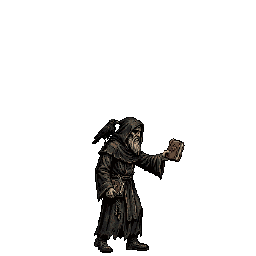
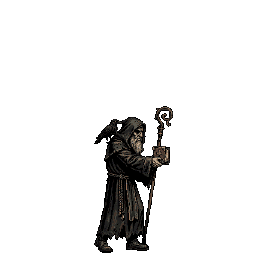
T65: poses refeitas do livro do Bento e da lança erguida do Jorge, no tamanho do parado (D-389)
Claude-Session: https://claude.ai/code/session_01DUWuezvzjAUhnjSiedgYuQ

Changed region(s): [[0.3438, 0.4062, 0.7188, 0.9688]]

diff --git a/docs/memory/decisions.md b/docs/memory/decisions.md
@@ -311,4 +311,5 @@ Formato: **D-número · data · quem** — decisão. *Onde está aplicada.*
 - **D-386 · 15/11/2026 · Alan e agente** — Revisão de Alan da arte de D-385: aprovada com comentários. Aplicado: (1) **Diabo de Lodo** refeito sem a sombra cinza (vinha do clipe anterior): parado com `animate_image` (4 gerações, respira sem riscos), preparar, **golpe com as garras** e **golpe com a boca da barriga** como poses desenhadas por `edit_image_pixen` (1 cada) a partir do parado aprovado; os dois golpes **se alternam** (`strike_alt`, só apresentação); guarda e queda mantidas. (2) **Sombra do Desejo** não avança: o golpe dela vira luz roxa em volta do alvo, como a Vertigem (`attack_style = outline`). (3) **Queda de Minos** (pose final de um clipe de 4 quadros). (4) Ícones: guarda (escudo redondo) e Passar (ampulheta) escolhidos de 64 opções `create_image_pro` 32 × 32 (10 cada); **Deslocar** em dois modelos (cinza e traço claro); espada da intenção de ataque **virada para cima**. (5) **Santos no estilo novo de Alan** (galeria, 15/11): rosto do Bento e da Teresinha refeito por `inpaint_image_pro_flash` (9 cada) com olhos claros e expressão serena (os originais de olhos pretos ficam para a Noite Escura); **Jorge** no mesmo estilo por `create_image_pro` (10) com o Jorge do piloto como referência. **Ainda não entram no jogo**: Alan escolhe pela comparação; aprovados, refazem-se as animações dos três. Gasto: ~52 gerações. *`pixel_clips.csv`, `pixel_characters.csv`, `combatant_view.gd`, `battle_screen.gd`, `art_source/characters/saints/*/pixel/*_still_v02.png`.*
 - **D-387 · 15/11/2026 · Alan** — Santos: **Jorge** fica o atual (o estilo novo quase não mudou); **Bento** no estilo novo **com os olhos escuros** (monge exorcista mais sério) e **com o corvo no ombro** (pedido de Alan; corvo levado do chão ao ombro por `edit_image_pixen`, 1 geração); **Teresinha** no estilo novo com o rosto refeito (olhos claros, serena). Os olhos pretos **não** servem para a Noite Escura (o editor refaz o rosto inteiro). Deslocar: o ícone **cinza**. Diabo de Lodo, Sombra, queda de Minos e ícones: aprovados. Animações novas (`animate_image_pixminimax`, 1 cada): Bento parado e andar (9 quadros), preparar, golpe, guarda e queda (o corvo levanta voo) em pose final; Teresinha parada e andar (9), preparar 4, crucifixo erguido 4, guarda 2, queda 4. Auréolas remedidas: Bento (60, 29), Teresinha (56, 24). Os 5 clipes do Bento sem o corvo (feitos antes do pedido) foram descartados. Saldo do PixelLab: 1.455. *`pixel_clips.csv`, `pixel_characters.csv`, `art_source/characters/saints/*/pixel/*_v02.png`.*
 - **D-388 · 15/11/2026 · Alan e agente** — Revisão de Alan: (1) "Jorge parece mais detalhado": conferido pelo agente, os três têm a **mesma resolução** (tela de 256, mesmo tamanho de pixel, mesma redução 0,6); a diferença é a pele quente e o contraste do Jorge. **Pele quente** sem gerar: na entrada, as cores de pele medidas no rosto do Bento e da Teresinha viram as cores da pele do Jorge na paleta (`SKIN_MAP`, só essas cores, para o hábito e o manto não mudarem). (2) **Exorcismo do Bento**: ergue o livro para a frente com uma mão (clipe `spell_strike`, pose por `edit_image_pixen`; o báculo some nessa pose curta). (3) **Milagre do Jorge**: ergue a lança ao alto antes de estocar (clipe `miracle_windup`, usado só quando a habilidade é o milagre). (4) **Auréolas** iguais à do Bento (aprovada): centro atrás da cabeça, aparecendo acima e atrás; Jorge (74, 17) e Teresinha (52, 18) a partir do canto do desenho. Gasto: 5 gerações (2 poses de livro descartadas). *`tools/art/import_pixel.py`, `pixel_clips.csv`, `pixel_characters.csv`, `combatant_view.gd`, `battle_screen.gd`.*
+- **D-389 · 15/11/2026 · Alan** — Pele, resolução e auréolas de D-388 **aprovadas**. Poses **reprovadas**: o livro do Bento aparecia na outra mão, o báculo sumia e o livro continuava na cintura; o Jorge encolhia ao erguer a lança (181 contra 229 pixels). Refeitas pelo agente como **animação curta a partir do próprio parado** (`animate_image_pixminimax`, 4 quadros, 1 geração; esse caminho mantém o tamanho e as mãos, ao contrário do `edit_image_pixen`): Bento ergue para a frente **o mesmo livro da cintura**, o báculo continua (quadro 4); Jorge ergue a lança acima da cabeça no tamanho do parado (quadro 2). Gasto: 4 gerações. Lição em `lessons.md`. *`saint_benedict_px_pose_book_v01.png`, `saint_george_px_pose_spear_up_v01.png`.*
 - **D-308** — Simulador: formação do M0 Jorge (1), Bento (2), Teresinha (3); expedição longa simulada com 6 combates, Lume −5 por nó, Pousos com Vigília depois dos combates 2 e 4 e vida cheia a cada combate. *T13, `tools/sim/battle_simulator.gd`.*

diff --git a/docs/memory/lessons.md b/docs/memory/lessons.md
@@ -93,3 +93,4 @@ Fluxo que funciona (`tools/art/process_frames.py` + `animation_clips.csv` + `ani
 - **Pixel art no Godot (T65):** mostre cada figura com a altura do próprio desenho (`CharacterFrames.figure_height`), não com uma altura fixa: Teresinha (233) e o Diabo de Lodo encolhidos para 230 saíram com pixels quebrados (escala 0,99 e 0,95). Fonte de pixel: `FontFile` com `antialiasing = NONE`, `hinting = NONE` e sem posição subpixel, no tamanho natural (Jersey 10 em 10, Jacquard 12 em 12).
 - **Shader de canvas no Godot 4 (T65, D-382):** no `fragment()`, `COLOR` já vem com a textura vezes o modulate. Amostrar `texture(TEXTURE, UV)` de novo e multiplicar eleva cada cor ao quadrado: tudo fica escuro e quente. Use `COLOR` direto (e, se precisar do modulate, guarde-o num `varying` no `vertex()`). Confira medindo a média da captura com força 0 contra a imagem crua.
 - **PixelLab, ações rápidas (T65):** `animate_image_pixminimax` põe arcos brancos e respingos vermelhos nos quadros do meio; fique com a pose final. Pose de golpe nova a partir do parado sai melhor e mais barata com `edit_image_pixen` (1 geração) do que animando. Ícone pequeno que não lê bem: `create_image_pro` em 32 × 32 dá 64 opções por 10 gerações.
+- **Pose nova de personagem (D-389):** `edit_image_pixen` pode trocar a mão do objeto, apagar o que o personagem segura e mudar o tamanho da figura. Para uma pose de ação, prefira uma animação curta a partir do parado (`animate_image_pixminimax`, 4 quadros) e use o quadro final: tamanho e mãos ficam.
